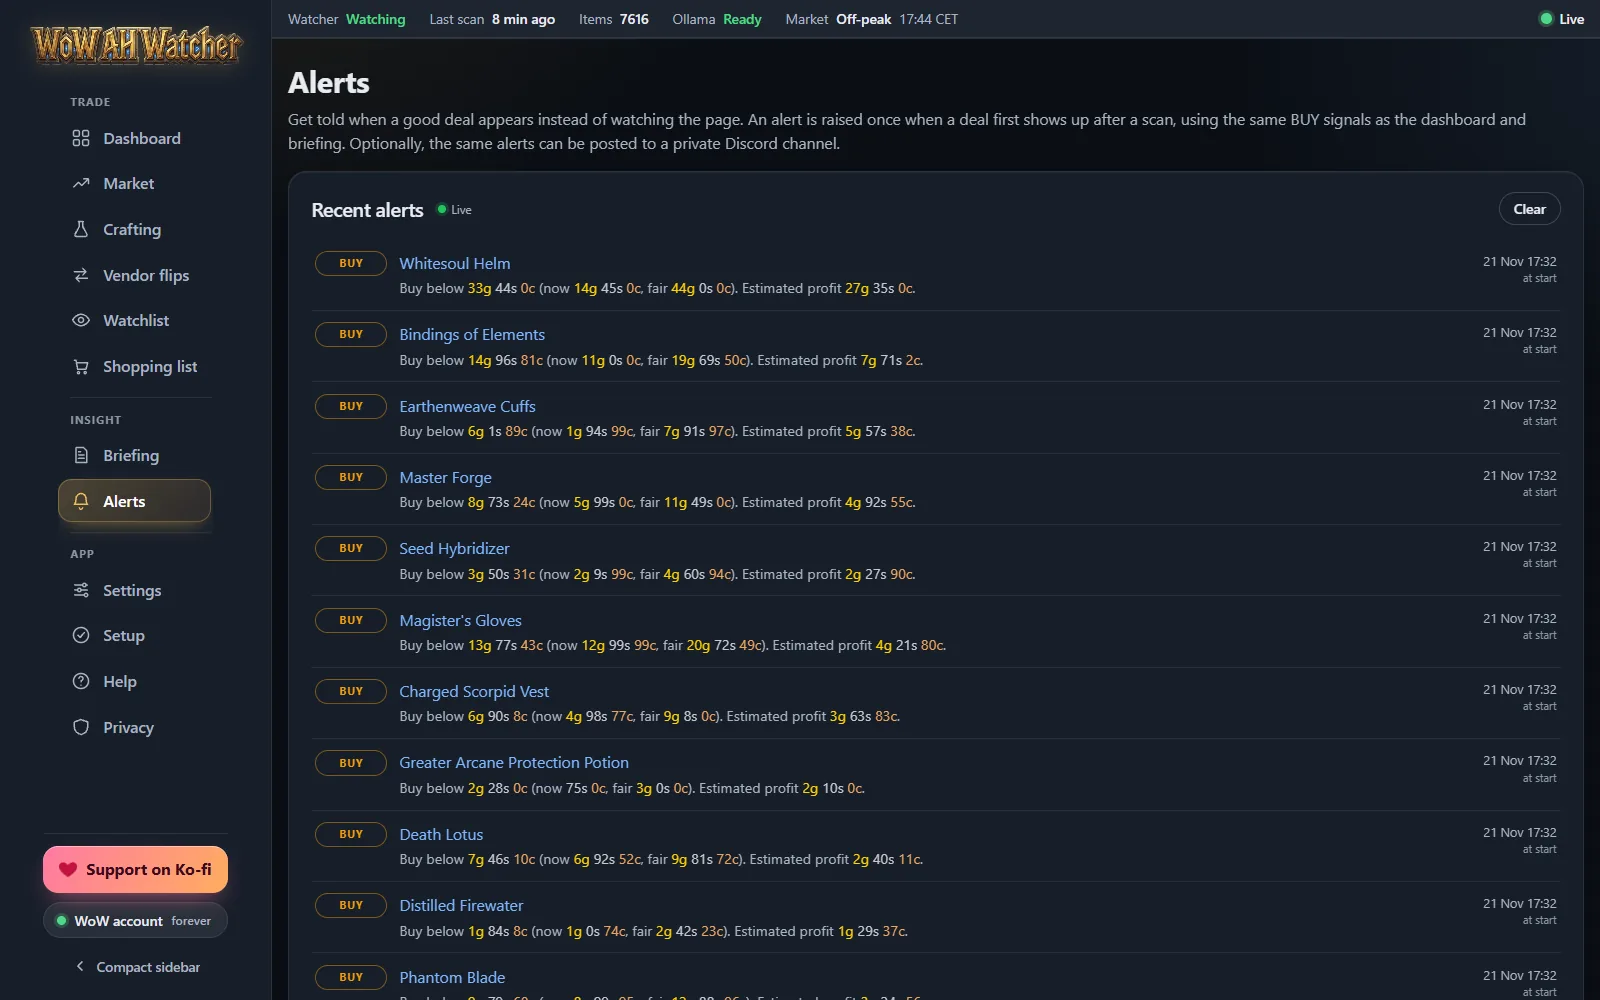
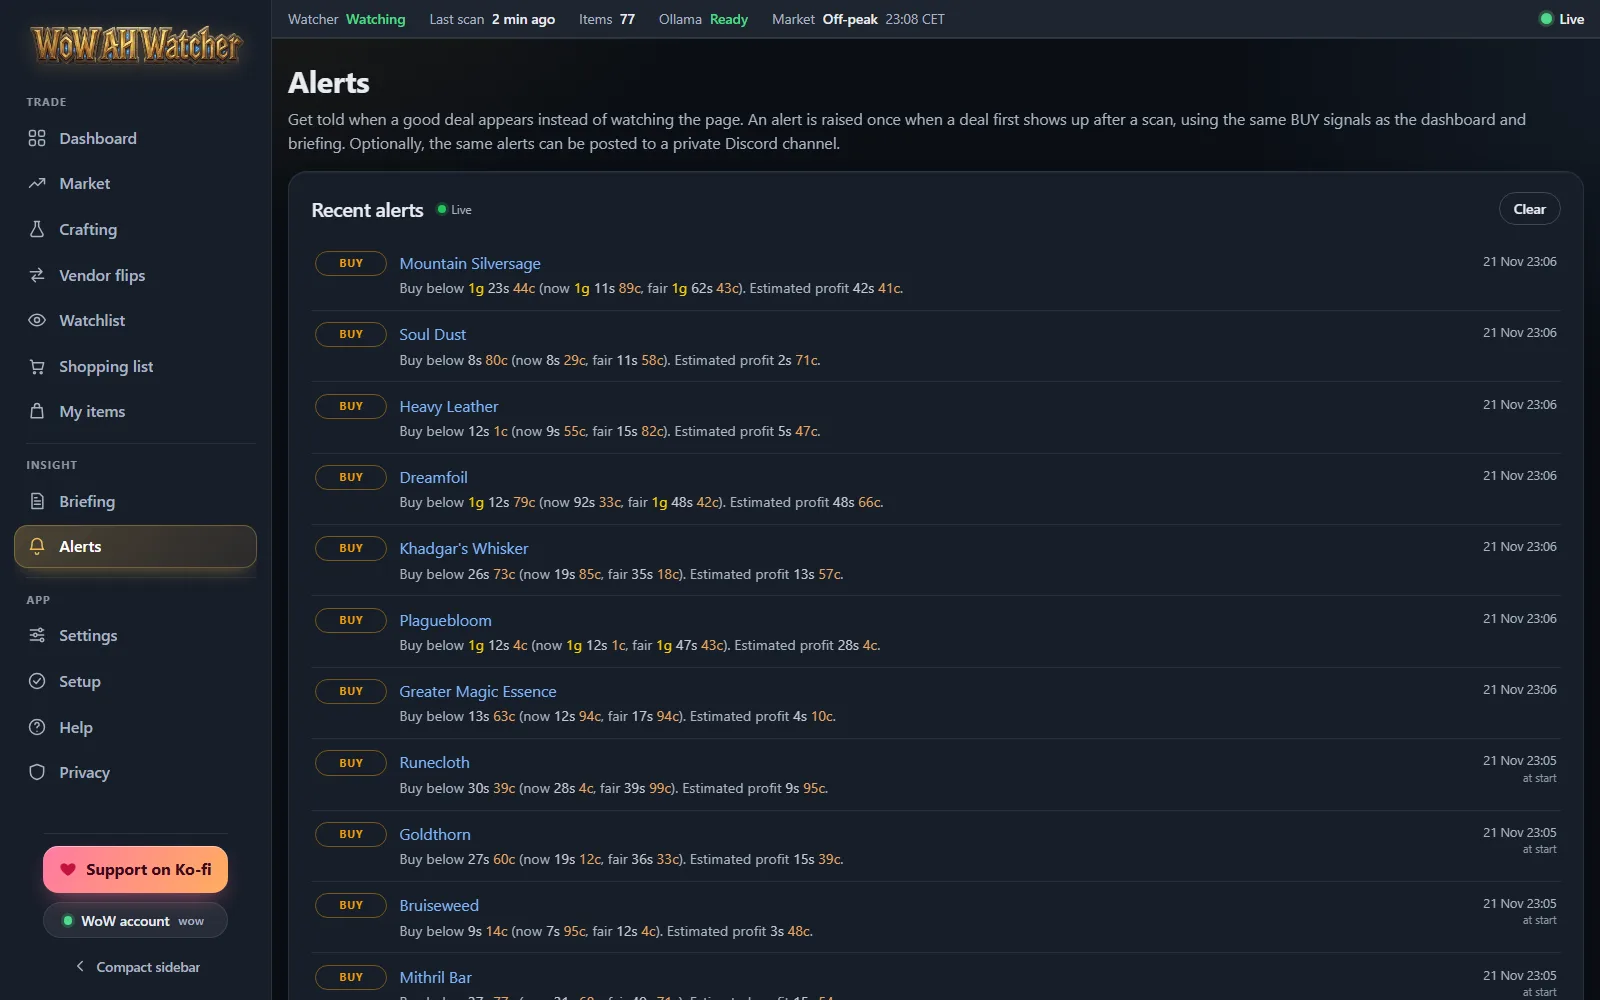
Update site: My items, summary styles, fresh screenshots with sample data

diff --git a/index.html b/index.html
@@ -17,14 +17,14 @@
 <meta property="og:title" content="WoW AH Watcher: know what to buy, craft and sell before the Auction House does">
 <meta property="og:description" content="Turn your Auctionator scans into BUY signals, true crafting profit, shopping lists and deal alerts. Free, 100% local, no accounts.">
 <meta property="og:url" content="https://wowahwatcher.com/">
-<meta property="og:image" content="https://wowahwatcher.com/assets/site/og-image.jpg?v=5">
+<meta property="og:image" content="https://wowahwatcher.com/assets/site/og-image.jpg?v=6">
 <meta property="og:image:width" content="1200">
 <meta property="og:image:height" content="630">
 <meta property="og:image:alt" content="WoW AH Watcher dashboard showing BUY signals, crafting profit and a written market briefing">
 <meta name="twitter:card" content="summary_large_image">
 <meta name="twitter:title" content="WoW AH Watcher: Auctionator market signals, crafting profit and deal alerts">
 <meta name="twitter:description" content="Free, 100% local Windows app that tells you what to buy, craft and sell in the World of Warcraft Auction House.">
-<meta name="twitter:image" content="https://wowahwatcher.com/assets/site/og-image.jpg?v=5">
+<meta name="twitter:image" content="https://wowahwatcher.com/assets/site/og-image.jpg?v=6">
 
 <link rel="icon" href="favicon.ico" sizes="any">
 <link rel="icon" type="image/png" sizes="32x32" href="assets/site/favicon-32.png">
@@ -45,7 +45,7 @@
       "description": "A free, local Windows app that reads your Auctionator scans and shows BUY, SELL-HOLD and WATCH signals, true crafting profit, vendor flips, a shopping list and deal alerts for the World of Warcraft Auction House.",
       "applicationCategory": "UtilitiesApplication",
       "operatingSystem": "Windows 10, Windows 11",
-      "softwareVersion": "1.1.1",
+      "softwareVersion": "1.1.2",
       "url": "https://wowahwatcher.com/",
       "downloadUrl": "https://github.com/nanidev/wowahwatcher/releases/latest",
       "image": "https://wowahwatcher.com/assets/site/og-image.jpg",
@@ -54,7 +54,9 @@
         "https://wowahwatcher.com/assets/screens/market.png",
         "https://wowahwatcher.com/assets/screens/crafting.png",
         "https://wowahwatcher.com/assets/screens/vendorflips.png",
-        "https://wowahwatcher.com/assets/screens/shopping.png"
+        "https://wowahwatcher.com/assets/screens/shopping.png",
+        "https://wowahwatcher.com/assets/screens/myitems.png",
+        "https://wowahwatcher.com/assets/screens/briefing.png"
       ],
       "offers": { "@type": "Offer", "price": "0", "priceCurrency": "USD", "description": "Free for personal, non-commercial use" },
       "author": { "@type": "Person", "name": "nanidev", "url": "https://github.com/nanidev" },
@@ -63,8 +65,9 @@
         "Crafting profit after the 5% Auction House cut, using vendor prices only where stock is unlimited",
         "Vendor flips: items worth more at a vendor than where they are sold, both directions",
         "Combined shopping list with buy-versus-craft comparison",
+        "My items: everything your characters carry, bank and have listed, valued with live market signals",
         "Live deal alerts with optional Discord webhook",
-        "Optional local AI briefing through Ollama",
+        "Optional local AI briefing through Ollama, in four writing styles, with live progress and a Stop button",
         "100% local, no accounts, no telemetry"
       ]
     },
@@ -88,9 +91,9 @@
         { "@type": "Question", "name": "Which World of Warcraft versions work?", "acceptedAnswer": { "@type": "Answer", "text": "The app looks for the retail, classic and forever game folders. If your install is somewhere unusual, you can choose the WoW folder yourself in Settings." } },
         { "@type": "Question", "name": "Does it run on Mac or Linux?", "acceptedAnswer": { "@type": "Answer", "text": "Not at the moment. WoW AH Watcher is a Windows 10 and Windows 11 (64-bit) app." } },
         { "@type": "Question", "name": "Windows says \"Windows protected your PC\". Is that normal?", "acceptedAnswer": { "@type": "Answer", "text": "Yes. The first builds are not code-signed yet, so Windows SmartScreen may warn you. Click More info, then Run anyway. Every download ships with a .sha256 file so you can verify it is untouched." } },
-        { "@type": "Question", "name": "Why is a cheap-looking item not marked BUY?", "acceptedAnswer": { "@type": "Answer", "text": "A BUY needs a price well below what the item usually sells for, a profit after the 5% Auction House cut, enough history and enough supply. Items that are Thin, Stale, Volatile or Falling are never marked BUY, even when they look cheap. The item page gives the reason." } },
+        { "@type": "Question", "name": "Why is a cheap-looking item not marked BUY?", "acceptedAnswer": { "@type": "Answer", "text": "A BUY needs a price well below what the item usually sells for, a profit after the 5% Auction House cut, enough history and enough supply. Items that are Thin, Old price, Volatile or Falling are never marked BUY, even when they look cheap. The item page gives the reason." } },
         { "@type": "Question", "name": "Can the AI make up numbers?", "acceptedAnswer": { "@type": "Answer", "text": "Every figure in an AI summary is compared with the data the app calculated. If a price or item does not match, the summary is discarded, the verified briefing is shown, and the page explains what did not match." } },
-        { "@type": "Question", "name": "How up to date are the prices?", "acceptedAnswer": { "@type": "Answer", "text": "The app only knows your last Auctionator scan, so it labels data as fresh, aging, stale or very old and never presents stale prices as a deal. Scan in game and the app updates within seconds." } }
+        { "@type": "Question", "name": "How up to date are the prices?", "acceptedAnswer": { "@type": "Answer", "text": "The app reads the time Auctionator itself records for its last full scan, so it labels the data as fresh (under an hour), aging, stale or very old and never presents old prices as a deal. Scan in game and the app updates within seconds." } }
       ]
     }
   ]
@@ -179,7 +182,7 @@
     <div class="wrap">
       <div class="center reveal">
         <span class="eyebrow">Product tour</span>
-        <h2 class="h2" id="show-title">Eight pages. One clear answer.</h2>
+        <h2 class="h2" id="show-title">Nine pages. One clear answer.</h2>
         <p class="lead">Real screenshots from the real app. Pick a page and take a look.</p>
       </div>
       <div class="show reveal" id="tour">
@@ -191,7 +194,8 @@
           <button class="tab" role="tab" id="t4" aria-controls="viewer" aria-selected="false" tabindex="-1"><strong>Shopping list</strong><p>One combined list of everything to buy, and where crafting a part beats buying it.</p></button>
           <button class="tab" role="tab" id="t5" aria-controls="viewer" aria-selected="false" tabindex="-1"><strong>Alerts</strong><p>Each new deal announced once, with the price to stay under. Optional Discord webhook for your phone.</p></button>
           <button class="tab" role="tab" id="t6" aria-controls="viewer" aria-selected="false" tabindex="-1"><strong>Item page</strong><p>The price history chart, the fair price and the plain-language reason behind every signal.</p></button>
-          <button class="tab" role="tab" id="t7" aria-controls="viewer" aria-selected="false" tabindex="-1"><strong>Briefing</strong><p>A short readable summary of the latest scan, with your own notes to steer the optional local AI.</p></button>
+          <button class="tab" role="tab" id="t7" aria-controls="viewer" aria-selected="false" tabindex="-1"><strong>Briefing</strong><p>A short readable summary of the latest scan. Pick a writing style and add your own notes to steer the optional local AI.</p></button>
+          <button class="tab" role="tab" id="t8" aria-controls="viewer" aria-selected="false" tabindex="-1"><strong>My items</strong><p>Everything your characters carry, keep in the bank and have listed, valued at market prices and tagged with the same signals.</p></button>
         </div>
         <div class="viewer" id="viewer" role="tabpanel" aria-live="polite">
           <div class="device">
@@ -204,7 +208,9 @@
               <img src="assets/site/shopping-1600.webp" srcset="assets/site/shopping-800.webp 800w, assets/site/shopping-1600.webp 1600w" sizes="(max-width: 1000px) 100vw, 760px" width="1600" height="1000" alt="Shopping list with a combined materials list and a buy-versus-craft tree" loading="lazy">
               <img src="assets/site/alerts-1600.webp" srcset="assets/site/alerts-800.webp 800w, assets/site/alerts-1600.webp 1600w" sizes="(max-width: 1000px) 100vw, 760px" width="1600" height="1000" alt="Alerts feed listing new BUY deals with prices" loading="lazy">
               <img src="assets/site/item-1600.webp" srcset="assets/site/item-800.webp 800w, assets/site/item-1600.webp 1600w" sizes="(max-width: 1000px) 100vw, 760px" width="1600" height="1000" alt="Item page with price history chart and the reason for its signal" loading="lazy">
-              <img src="assets/site/briefing-1600.webp" srcset="assets/site/briefing-800.webp 800w, assets/site/briefing-1600.webp 1600w" sizes="(max-width: 1000px) 100vw, 760px" width="1600" height="1000" alt="Briefing page with notes for the AI and the latest written briefing" loading="lazy">
+              <img src="assets/site/briefing-1600.webp" srcset="assets/site/briefing-800.webp 800w, assets/site/briefing-1600.webp 1600w" sizes="(max-width: 1000px) 100vw, 760px" width="1600" height="1000" alt="Briefing page with a summary style menu, notes for the AI and the latest written briefing" loading="lazy">
+              <img src="assets/site/myitems-1600.webp" srcset="assets/site/myitems-800.webp 800w, assets/site/myitems-1600.webp 1600w" sizes="(max-width: 1000px) 100vw, 760px" width="1600" height="1000" alt="My items page listing what each character carries, keeps in the bank and has on the auction house, with market signals and worth" loading="lazy">
+
             </div>
           </div>
         </div>
@@ -225,11 +231,11 @@
         <article class="card span4 reveal">
           <span class="tag">Signals</span>
           <h3>Finds the real bargains</h3>
-          <p>Every scanned item gets one signal, based only on your own history. A BUY needs a price well below what the item usually sells for, a profit after the Auction House cut, enough history and enough supply. Thin, Stale, Volatile and Falling items are never shown as BUY, so one-listing flukes and still-falling prices never pass as deals.</p>
+          <p>Every scanned item gets one signal, based only on your own history. A BUY needs a price well below what the item usually sells for, a profit after the Auction House cut, enough history and enough supply. Thin, Old price, Volatile and Falling items are never shown as BUY, so one-listing flukes and still-falling prices never pass as deals.</p>
           <div class="demo chips">
             <div class="sig buy" style="--i:0"><b>BUY</b><span>Well below the fair price, and still a profit after the Auction House cut.</span></div>
             <div class="sig hold" style="--i:1"><b>SELL-HOLD</b><span>Already near or above the fair price. Hold stock instead of buying more.</span></div>
-            <div class="sig watch" style="--i:2"><b>WATCH</b><span>Nothing stands out yet, or the item is Thin, Stale, Volatile or Falling and not safe to buy.</span></div>
+            <div class="sig watch" style="--i:2"><b>WATCH</b><span>Nothing stands out yet, or the item is Thin, Old price, Volatile or Falling and not safe to buy.</span></div>
           </div>
         </article>
 
@@ -273,7 +279,7 @@
         <article class="card span2 reveal" style="--d:.2s">
           <span class="tag">Honesty</span>
           <h3>Honest about old data</h3>
-          <p>Fresh, aging, stale and very old are labelled, and stale prices never pose as a deal.</p>
+          <p>The age comes from Auctionator's own scan time, not from when a file was saved. Fresh, aging, stale and very old are labelled, and old prices never pose as a deal.</p>
           <div class="demo fresh" aria-hidden="true">
             <div class="bars"><i style="--i:0"></i><i style="--i:1"></i><i style="--i:2"></i><i style="--i:3"></i></div>
             <div class="lab"><span>Fresh</span><span>Aging</span><span>Stale</span><span>Very old</span></div>
@@ -283,7 +289,7 @@
         <article class="card span3 reveal">
           <span class="tag">Briefing</span>
           <h3>A written briefing after every scan</h3>
-          <p>Built by fixed rules, so it always works. Run Ollama locally and an AI can turn it into a flowing summary, weighing your own notes against the numbers. Every figure an AI summary quotes is checked against your data first, and a mismatch is discarded with the reason shown. It all stays on your machine.</p>
+          <p>Built by fixed rules, so it always works. Run Ollama locally and an AI can turn it into a flowing summary in the style you pick (Coach, Quick flip, Crafter or Cautious), weighing your own notes against the numbers. You watch it being written and can stop it at any time, and a burst of scans gives one briefing, not a pile of them. Every figure an AI summary quotes is checked against your data first, and a mismatch is discarded with the reason shown. It all stays on your machine.</p>
           <div class="demo">
             <div class="type-label"><i></i>Local briefing</div>
             <div class="type" id="typer" data-text="Today looks good for cloth. Three items are well below their fair price with plenty of supply, so they are worth buying now. Your best craft still pays after the Auction House cut. Two flasks are Thin, so I would watch them rather than buy."></div>
@@ -299,7 +305,8 @@
           </div>
           <ul class="mini">
             <li><svg viewBox="0 0 24 24" fill="none" stroke="currentColor" stroke-width="2.4" stroke-linecap="round" stroke-linejoin="round" aria-hidden="true"><path d="M5 12.5l4.5 4.5L19 7.5"/></svg><span><b>Watchlist</b> built from your own market history</span></li>
-            <li><svg viewBox="0 0 24 24" fill="none" stroke="currentColor" stroke-width="2.4" stroke-linecap="round" stroke-linejoin="round" aria-hidden="true"><path d="M5 12.5l4.5 4.5L19 7.5"/></svg><span><b>Vendor flips</b> both ways, with stock and age flagged</span></li>
+            <li><svg viewBox="0 0 24 24" fill="none" stroke="currentColor" stroke-width="2.4" stroke-linecap="round" stroke-linejoin="round" aria-hidden="true"><path d="M5 12.5l4.5 4.5L19 7.5"/></svg><span><b>My items</b> across every character, with market signals</span></li>
+                        <li><svg viewBox="0 0 24 24" fill="none" stroke="currentColor" stroke-width="2.4" stroke-linecap="round" stroke-linejoin="round" aria-hidden="true"><path d="M5 12.5l4.5 4.5L19 7.5"/></svg><span><b>Vendor flips</b> both ways, with stock and age flagged</span></li>
             <li><svg viewBox="0 0 24 24" fill="none" stroke="currentColor" stroke-width="2.4" stroke-linecap="round" stroke-linejoin="round" aria-hidden="true"><path d="M5 12.5l4.5 4.5L19 7.5"/></svg><span><b>Saved views</b> for your favourite filters</span></li>
             <li><svg viewBox="0 0 24 24" fill="none" stroke="currentColor" stroke-width="2.4" stroke-linecap="round" stroke-linejoin="round" aria-hidden="true"><path d="M5 12.5l4.5 4.5L19 7.5"/></svg><span><b>CSV export</b> of the whole market table</span></li>
             <li><svg viewBox="0 0 24 24" fill="none" stroke="currentColor" stroke-width="2.4" stroke-linecap="round" stroke-linejoin="round" aria-hidden="true"><path d="M5 12.5l4.5 4.5L19 7.5"/></svg><span><b>Tray icon</b> to open, restart or quit</span></li>

diff --git a/README.md b/README.md
@@ -32,7 +32,7 @@ It runs quietly on your own PC, opens in your browser, and stays out of the game
 ## What it does for you
 
 ### Finds the real bargains
-Every item from your latest scan gets a signal: **BUY**, **SELL-HOLD** or **WATCH**. A BUY means the price is well below what the item usually sells for, it still makes a profit after the Auction House cut, and there is enough history and supply to trust it. Items that are **Thin** (too few listings), **Stale** (old data), **Volatile** (prices swing too much) or **Falling** (the last few days sit well below the days before) are never marked BUY, so a one-listing fluke or a price that is still dropping never shows up as a "deal".
+Every item from your latest scan gets a signal: **BUY**, **SELL-HOLD** or **WATCH**. A BUY means the price is well below what the item usually sells for, it still makes a profit after the Auction House cut, and there is enough history and supply to trust it. Items that are **Thin** (too few listings), **Old price** (the item's price is old), **Volatile** (prices swing too much) or **Falling** (the last few days sit well below the days before) are never marked BUY, so a one-listing fluke or a price that is still dropping never shows up as a "deal".
 
 <div align="center">
 <img src="assets/screens/market.png" alt="The Market page with presets, filters, saved views and signal chips" width="92%">
@@ -63,6 +63,14 @@ Add the crafts you plan to make and how many of each. You get **one combined "wh
 <br><sub>Shopping list: one list for every material, and where crafting a part beats buying it.</sub>
 </div>
 
+### Shows what you own, and what it is worth
+The **My items** page lists what every character carries in their bags and bank, what sits in the warband bank, and what is listed on the Auction House, valued at the lowest price in your latest scan. Each item carries its market signal, so you can see at a glance which of your stock is at a sell price, which of your auctions have been undercut, and what you hold in total. Every place shows how old its scan is, and items with no price are counted separately instead of guessed. It needs the small Data helper addon, which the guided setup installs.
+
+<div align="center">
+<img src="assets/screens/myitems.png" alt="The My items page with each character's items, their market signals and what they are worth" width="92%">
+<br><sub>My items: everything your characters own and have listed, valued at market prices with live signals.</sub>
+</div>
+
 ### Tells you the moment a deal appears
 A live **Alerts** feed announces each new BUY deal once, with a badge in the sidebar so you notice without staring at the page. Prefer your phone? Add your own **Discord webhook** and the same alerts arrive in a private channel.
 
@@ -80,11 +88,11 @@ Each item page charts its price history and lists the notable days. Every figure
 </div>
 
 ### Writes you a briefing
-After each scan you get a short, readable briefing: what to buy now, why, and what to watch. It is built by fixed rules from your data, so it always works. If you run [Ollama](https://ollama.com) on your PC, a local AI can rewrite it as a flowing summary, and you can add your own notes ("more players reached this skill since launch, so supply is growing") that the AI weighs against the numbers. Every figure the AI quotes is checked against your data first; a summary that does not match is discarded, the verified briefing is shown, and the page says why. You can also read the rejected text, and a small rounding such as "20g" for a price is noted instead of throwing the whole summary away. The AI runs **on your machine**, so your data stays yours.
+After each scan you get a short, readable briefing: what to buy now, why, and what to watch. It is built by fixed rules from your data, so it always works. If you run [Ollama](https://ollama.com) on your PC, a local AI can rewrite it as a flowing summary in the style you choose (**Coach**, **Quick flip**, **Crafter** or **Cautious**), and you can add your own notes ("more players reached this skill since launch, so supply is growing") that the AI weighs against the numbers. You watch the summary being written, with live progress, and can stop it at any time. A burst of scans gives one briefing, not a pile of them. Every figure the AI quotes is checked against your data first; a summary that does not match is discarded, the verified briefing is shown, and the page says why. You can also read the rejected text, and a small rounding such as "20g" for a price is noted instead of throwing the whole summary away. The AI runs **on your machine**, so your data stays yours.
 
 <div align="center">
-<img src="assets/screens/briefing.png" alt="The Briefing page with your notes for the AI and the latest briefing" width="92%">
-<br><sub>Briefing: a written summary of the latest scan, with your own notes to steer it.</sub>
+<img src="assets/screens/briefing.png" alt="The Briefing page with a summary style menu, your notes for the AI and the latest briefing" width="92%">
+<br><sub>Briefing: a written summary of the latest scan, in the style you pick, with your own notes to steer it.</sub>
 </div>
 
 ---
@@ -96,7 +104,7 @@ After each scan you get a short, readable briefing: what to buy now, why, and wh
 | **Watchlist** | Follow the items you care about. Suggestions are built from your own market history, never from a built-in list. |
 | **Saved Market views** | Save a set of filters under a name and reopen it with one click. |
 | **CSV download** | Take the whole market table into a spreadsheet. |
-| **Honest freshness labels** | Fresh, aging, stale and very old data are labelled, and stale prices never pose as a deal. |
+| **Honest freshness labels** | The age comes from Auctionator's own scan time. Fresh (under an hour), aging, stale and very old data are labelled, and old prices never pose as a deal. |
 | **Guided setup** | Finds your WoW account, helps you install the two small helper addons (item names, vendor prices and recipes), and tells you exactly what is missing. |
 | **Gold, silver and copper** | Every price uses the in-game coin colours, everywhere in the app. |
 | **Runs like a normal Windows app** | No console window. It opens in your browser, and a tray icon lets you open, restart or quit it, and start it with Windows. |
